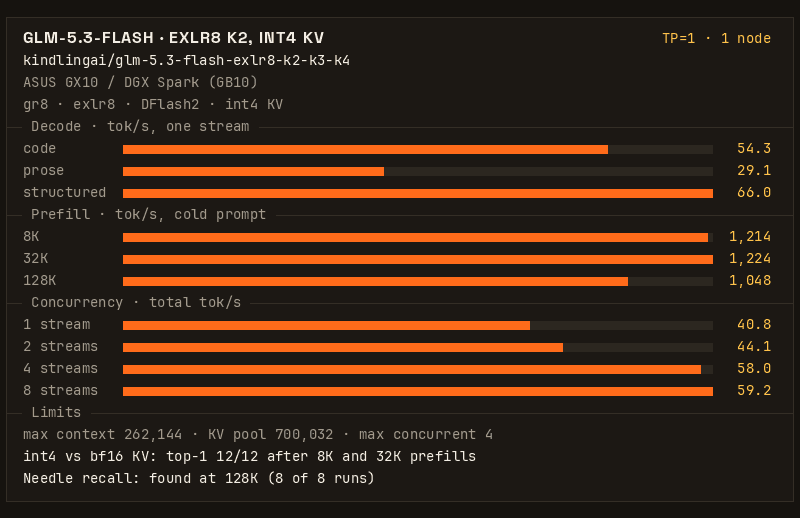
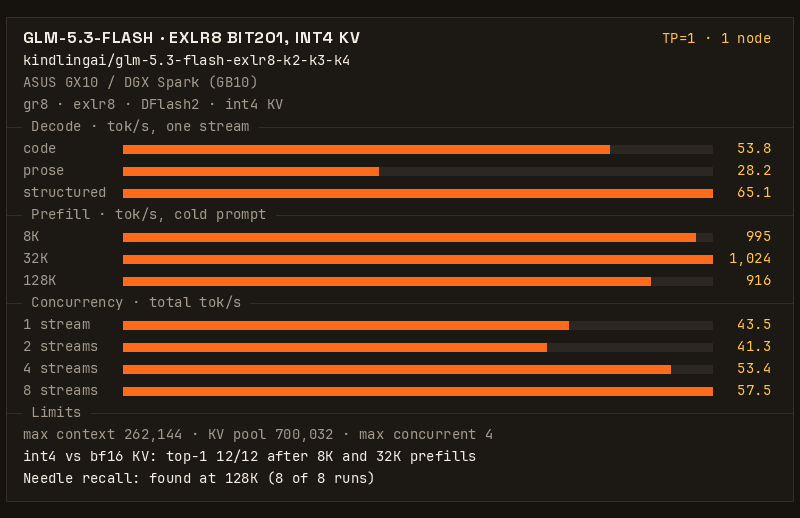
README, FLASH.md: GLM-5.3-Flash numbers from the recipes' kindling.json; 2x card (#460)
The README's GLM-5.3-Flash lines and the docs/FLASH.md table showed older numbers: the one-box line was the K2 build,
and the two-box line was a first run. They now match each recipe's `kindling.json`, the numbers on the recipe cards.

- README: the one-box line is 53.8 tok/s code, 995 tok/s prefill at 8K. The two-box line is 74.5 tok/s code, 1,675 tok/s
  prefill at 8K, 8 requests at once from a 2,097,152-token KV pool. The two-box recipe gets its card.
- README install table: the two-box download is about 76 GB a box (86 GB with `TUNE=quality`), as the two-box README says.
- docs/FLASH.md: the Results table takes both columns from the recipes' `kindling.json` (one box at
  glm-5.3-flash-exlr8-1x-spark 3e9754c5, two boxes at glm-5.3-flash-exlr8-2x-spark 81c29ca3). One paragraph says what the
  recipes' `bit201` and `bit349` manifests are.
- docs/cards/make.sh draws the two-box card too. The one-box card is redrawn from its current `kindling.json`.

No new measurement in this PR. Docs only.

diff --git a/docs/FLASH.md b/docs/FLASH.md
@@ -5,25 +5,28 @@ One to four DGX Spark (GB10) boxes (TP=1 to TP=4). Weights: the exlr8 release on
 
 gr8 serves [GLM-5.3-Flash](https://huggingface.co/zai-org/GLM-5.3-Flash) from its exlr8 release
 ([kindlingai/glm-5.3-flash-exlr8-k2-k3-k4](https://huggingface.co/kindlingai/glm-5.3-flash-exlr8-k2-k3-k4)) at TP=4,
-TP=3 (a three-box ring, variant k4), TP=2 or TP=1 (one box, variant k2, the one width whose weights fit). The engine is `bin/g6m4_flash`, a build of the same `g6m4` source with `-DG6_MODEL_FLASH=1`
+TP=3 (a three-box ring, variant k4), TP=2 (two boxes) or TP=1 (one box, variant k2, the one width whose weights fit). The engine is `bin/g6m4_flash`, a build of the same `g6m4` source with `-DG6_MODEL_FLASH=1`
 (`engine/model_geom.h` holds the geometry).
 
 ## Results
 
-On one and two boxes, from the recipe repos (the one-box numbers are the image's defaults, also in its
-[kindling.json](https://github.com/kindlingai/glm-5.3-flash-exlr8-1x-spark/blob/main/kindling.json)):
+On one and two boxes, from each recipe's `kindling.json` as of 2026-11-08 (the numbers on its card, with the image's
+defaults):
 
-| | one box (TP=1) | two boxes (TP=2), first run |
+| | one box (TP=1) | two boxes (TP=2) |
 |---|---|---|
-| width, KV, drafting | K2, int4 KV, DFlash2 | K4, int4 KV, DFlash2 |
-| decode, code / prose / structured | 54.3 / 29.1 / 66.0 tok/s | 71.1 / 41.5 / 90.0 tok/s |
-| prefill, 8K / 32K / 128K prompt | 1,214 / 1,224 / 1,048 tok/s | 1,698 / 1,694 / 1,404 tok/s |
-| aggregate decode, 1 / 2 / 4 / 8 streams | 40.8 / 44.1 / 58.0 / 59.2 tok/s | not measured yet |
-| KV pool | 700,032 tokens, up to 4 requests at once | `CAP` 262,208 |
-| from | [glm-5.3-flash-exlr8-1x-spark](https://github.com/kindlingai/glm-5.3-flash-exlr8-1x-spark), `gr8 glm53f bench`, 2026-11-06 | [glm-5.3-flash-exlr8-2x-spark](https://github.com/kindlingai/glm-5.3-flash-exlr8-2x-spark), "First numbers" in its README of 2026-11-06 |
+| manifest, KV, drafting | `bit201`, int4 KV, DFlash2 | `bit349`, int4 KV, DFlash2 |
+| decode, code / prose / structured | 53.8 / 28.2 / 65.1 tok/s | 74.5 / 41.9 / 94.6 tok/s |
+| prefill, 8K / 32K / 128K prompt | 995 / 1,024 / 916 tok/s | 1,675 / 1,676 / 1,354 tok/s |
+| aggregate decode, 1 / 2 / 4 / 8 streams | 43.5 / 41.3 / 53.4 / 57.5 tok/s | 54.0 / 62.5 / 75.5 / 98.2 tok/s |
+| KV pool | 700,032 tokens, up to 4 requests at once | 2,097,152 tokens, up to 8 requests at once |
+| from | [glm-5.3-flash-exlr8-1x-spark `kindling.json`](https://github.com/kindlingai/glm-5.3-flash-exlr8-1x-spark/blob/3e9754c5/kindling.json) | [glm-5.3-flash-exlr8-2x-spark `kindling.json`](https://github.com/kindlingai/glm-5.3-flash-exlr8-2x-spark/blob/81c29ca3/kindling.json) |
 
-The two-box numbers are from a first run and are not yet in a kindling.json. At TP=3 and TP=4 the sections below have
-what is measured so far. Open bugs: [KNOWN-ISSUES.md](../KNOWN-ISSUES.md#glm-53-flash).
+The recipes use two other manifests of the same release. `bit201` (one box) is K2, with the 124 routed experts that
+carry the most routing weight at tool-call positions at K3. `bit349` (two boxes) is K3, with K4 where it lowers KL most,
+about 3.49 bits a routed weight.
+
+At TP=3 and TP=4 the sections below have what is measured so far. Open bugs: [KNOWN-ISSUES.md](../KNOWN-ISSUES.md#glm-53-flash).
 
 ## Build and run
 
@@ -39,7 +42,7 @@ segments as for GLM-5.3. GLM-5.3 and Flash then share one store and its disk bud
 `./gr8 glm53f` takes the options of `./gr8 glm53` (KNOBS.md). Each box fetches its rank's part of the release and loads
 it through the same release planner as GLM-5.3 (`engine/loader-rs`): `release::plan` reads the model from the release's
 own metadata (`hidden_size` 4096) and maps Flash's tensors with `engine/loader-rs/src/flash.rs`. The width manifests are
-`k2`, `k3` and `k4` (the default).
+`k2`, `k3` and `k4` (the default); the recipes use `bit201` (one box) and `bit349` (two boxes), see [Results](#results).
 
 The front end serves the model as `glm-5.3-flash` (`/v1/models` lists it first) and also answers to `glm53f`. A request
 that names `glm-5.3` gets a 404 (one that names no model is served), so a router that picks backends by model name

diff --git a/README.md b/README.md
@@ -17,15 +17,17 @@ one model at a time: stop the running recipe's container on every box before you
 
 [![GLM-5.3-Flash on one GB10: decode, prefill and concurrency](docs/cards/glm-5.3-flash-exlr8-1x-spark.png)](https://github.com/kindlingai/glm-5.3-flash-exlr8-1x-spark)
 
-54.3 tok/s for one request writing code · 1,214 tok/s prefill on an 8K prompt · 4 requests at once from a 700,032-token KV
+53.8 tok/s for one request writing code · 995 tok/s prefill on an 8K prompt · 4 requests at once from a 700,032-token KV
 pool · one `docker run`
 
 **[Recipe](https://github.com/kindlingai/glm-5.3-flash-exlr8-1x-spark)** · [Model page](docs/FLASH.md)
 
 ### GLM-5.3-Flash on 2 Sparks
 
-71.1 tok/s for one request writing code · 1,698 tok/s prefill on an 8K prompt · 4 requests at once · first run, work in
-progress
+[![GLM-5.3-Flash on two GB10s: decode, prefill and concurrency](docs/cards/glm-5.3-flash-exlr8-2x-spark.png)](https://github.com/kindlingai/glm-5.3-flash-exlr8-2x-spark)
+
+74.5 tok/s for one request writing code · 1,675 tok/s prefill on an 8K prompt · 8 requests at once from a
+2,097,152-token KV pool · the same image on both boxes
 
 **[Recipe](https://github.com/kindlingai/glm-5.3-flash-exlr8-2x-spark)** · [Model page](docs/FLASH.md)
 
@@ -79,7 +81,7 @@ redraws them). The model pages give each benchmark and its date.</sub>
 | model | boxes | start here | download | weights on Hugging Face |
 |---|---|---|---|---|
 | [GLM-5.3-Flash](docs/FLASH.md) | 1 | [glm-5.3-flash-exlr8-1x-spark](https://github.com/kindlingai/glm-5.3-flash-exlr8-1x-spark): one `docker run` | 87 GB | [kindlingai/glm-5.3-flash-exlr8-k2-k3-k4](https://huggingface.co/kindlingai/glm-5.3-flash-exlr8-k2-k3-k4) |
-| GLM-5.3-Flash | 2 | [glm-5.3-flash-exlr8-2x-spark](https://github.com/kindlingai/glm-5.3-flash-exlr8-2x-spark): the same image on both boxes | about 86 GB a box | |
+| GLM-5.3-Flash | 2 | [glm-5.3-flash-exlr8-2x-spark](https://github.com/kindlingai/glm-5.3-flash-exlr8-2x-spark): the same image on both boxes | about 76 GB a box (86 GB with `TUNE=quality`) | |
 | GLM-5.3-Flash | 3 or 4 | [docs/FLASH.md](docs/FLASH.md) | see the page | |
 | [GLM-5.3](docs/GLM-5.3.md) | 3 to 6 | Docker Compose (below), or [docs/DEPLOY.md](docs/DEPLOY.md) for bare metal and Kubernetes | about 90 GB a box with 4 boxes (TP=4) | [kindlingai/glm-5.3-exlr8-k2-k3-k4](https://huggingface.co/kindlingai/glm-5.3-exlr8-k2-k3-k4) |
 | [DeepSeek-V4.1-Flash](docs/DEEPSEEK.md) | 4 | [deepseek-v4.1-flash-exlr8-4x-spark](https://github.com/kindlingai/deepseek-v4.1-flash-exlr8-4x-spark): the same image on all four boxes, fast mode by default; or [docs/DEEPSEEK-BOOT.md](docs/DEEPSEEK-BOOT.md) with gr8's own launcher, exact output by default | 510.6 GB a box, fetched before the first boot | [kindlingai/deepseek-v4.1-flash-exlr8-native](https://huggingface.co/kindlingai/deepseek-v4.1-flash-exlr8-native) |
